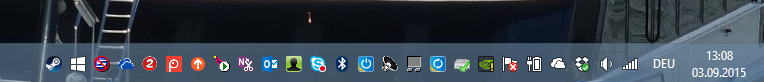
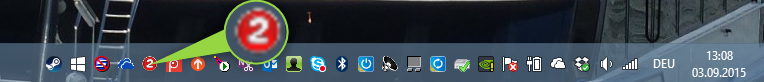
Added Image to README.md

Changed region(s): [[0.1806, 0.0, 0.3914, 0.8293]]

diff --git a/README.md b/README.md
@@ -3,6 +3,8 @@ Utility to monitor number of executed Progress Developer Studio for OpenEdge ins
 
 The utility displays the number of executed javaw.exe processes (likely Progress Developer Studio for OpenEdge or OpenEdge architect) in the windows system tray.
 
+![](Screenshots/Screenshot.png)
+
 Shutting down Windows or logging off form a Windows Terminal Server session while Progress Developer Studio is still executed may cause in abnormal shutdown of the PDSOE tool. As PDSOE sometimes takes minutes to shut down completely after the workbench window has been closed this may be hard to track.
 
 Killing PDSOE instances may severly impact a workspaces health and performance while using the development environment. 
